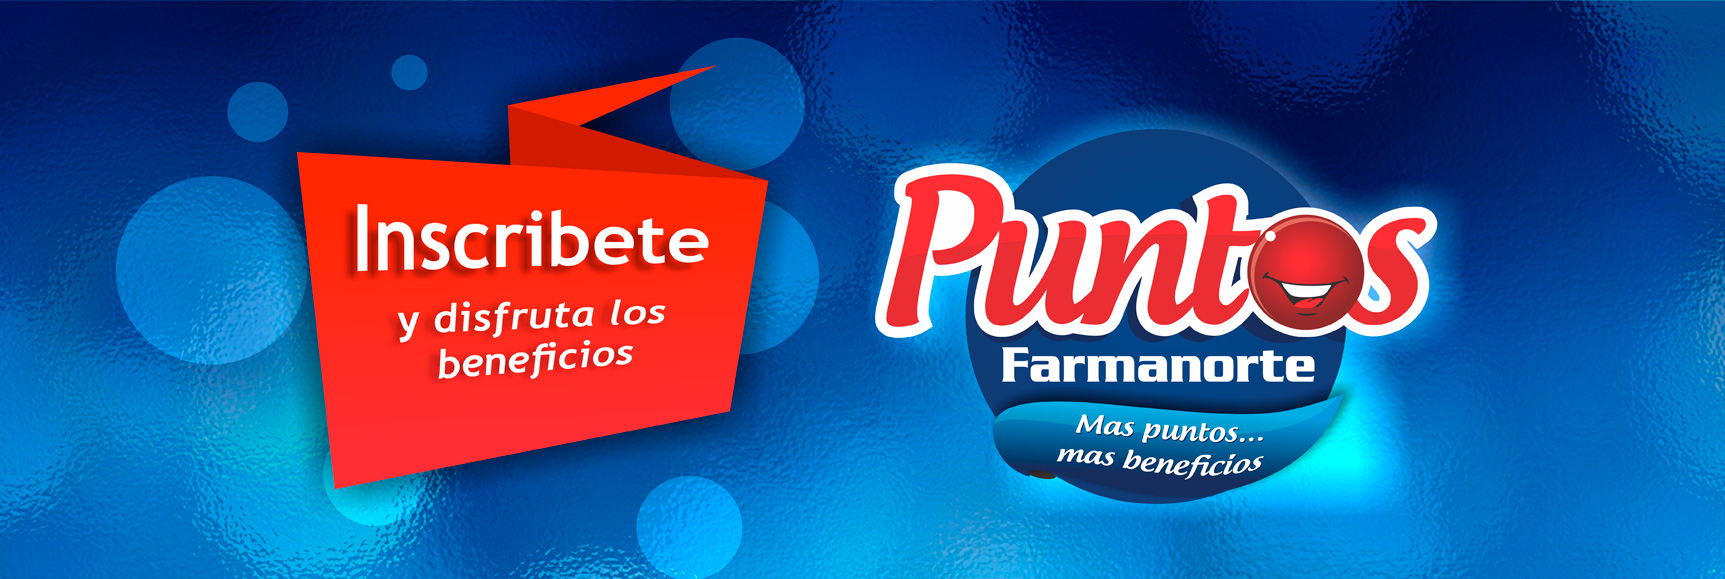
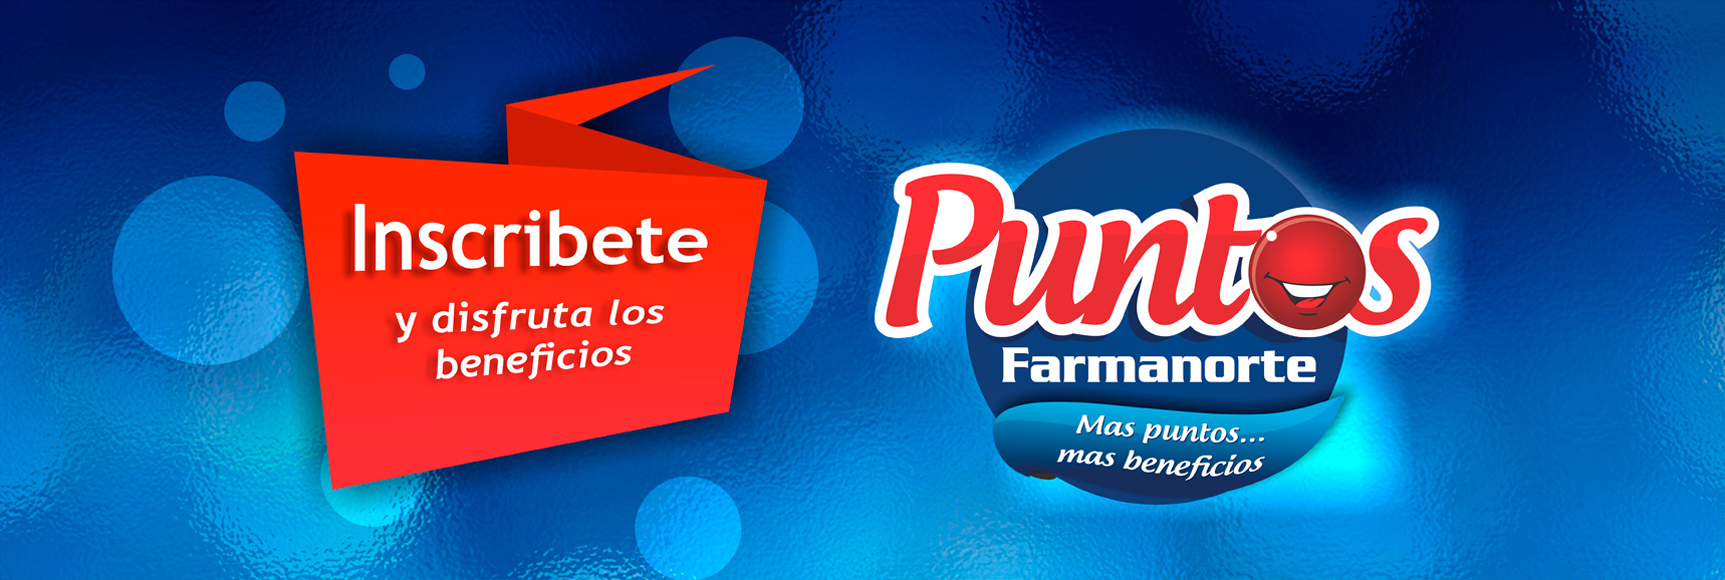
Cambios menores de links

diff --git a/index.html b/index.html
@@ -17,7 +17,7 @@
     <meta property="og:title" content="Puntos Farmanorte" />
     <meta property="og:url" content="http://www.puntosfarmanorte.com.co" />
     <meta property="og:description" content="Vinculate a nuestro programa de clientes fieles.">
-    <meta property="og:image" content="../images/iconospuntos-192x192.png">
+    <meta property="og:image" content="images/iconospuntos-192x192.png">
     <meta property="og:type" content="Application" />
     <meta name="HandheldFriendly" content="True">
     <meta name="MobileOptimized" content="320">
@@ -102,7 +102,7 @@
               <!-- <figcaption class="orbit-caption">Space, the final frontier.</figcaption> -->
             </li>
             <li class="orbit-slide">
-              <img class="orbit-image" src="images/bannersucursal.jpg" alt="Space">
+              <img class="orbit-image" src="images/bannersucursal.png" alt="Space">
               <!-- <figcaption class="orbit-caption">Lets Rocket!</figcaption> -->
             </li>          
           </ul>        
@@ -162,7 +162,7 @@
                 <li>Cada vez que el Afiliado realice una compra en las sucursales Farmanorte y se identifique en la caja con su cédula de ciudadanía, acumulará puntos en una cuenta personal</li>
                 <li>Preferencias en todos nuestros eventos, concursos y sorteos.</li>
                 <li>Obtendrás descuentos en productos especiales.</li>
-                <li>Con mas de 30 puntos de ventas en Norte de Santander en donde podrás hacer muy fácil la redención de puntos.  (VER SUCURSALES HAZ CLIC) </li>
+                <li>Con mas de 30 puntos de ventas en Norte de Santander en donde podrás hacer muy fácil la redención de puntos. <a href="https://www.farmanorte.com.co/seccion/mapsfarmanorte.html" target="_blank" id="linkmap">(VER SUCURSALES HAZ CLIC)</a> </li>
               </ul>
             </p>
           </div>

diff --git a/seccion/inscripcion.html b/seccion/inscripcion.html
@@ -6,13 +6,27 @@
     <meta name="viewport" content="width=device-width, user-scalable=no, initial-scale=1.0, maximum-scale=2.0, minimum-scale=1.0">    
     <meta name="description" content="Puntos Farmanorte es el programa de fidelizaci&oacute;n de clientes de la cadena Drogueria Faramanorte">
     <meta name="author" content="SoftDeromedicas">
-    <title>Puntos Farmanorte</title>
+    <title>Inscripcion - Puntos Farmanorte</title>
     <link rel="canonical" href="http://www.puntosfarmanorte.com.co">
     <meta name="robots" content="all">    
     <link rel="stylesheet" href="../css/foundation.css">
     <link rel="stylesheet" href="../css/app.css">
     <link rel="stylesheet" href="../css/font-awesome.css">   
     <link href="https://fonts.googleapis.com/css?family=Open+Sans:400,600i" rel="stylesheet">   
+
+    <meta property="og:title" content="Puntos Farmanorte" />
+    <meta property="og:url" content="http://www.puntosfarmanorte.com.co" />
+    <meta property="og:description" content="Vinculate a nuestro programa de clientes fieles.">
+    <meta property="og:image" content="../images/iconospuntos-192x192.png">
+    <meta property="og:type" content="Application" />
+    <meta name="HandheldFriendly" content="True">
+    <meta name="MobileOptimized" content="320">
+    
+    <link rel="apple-touch-icon" sizes="180x180" href="../images/apple-touch-icon.png">
+    <link rel="icon" type="image/png" sizes="32x32" href="../images/favicon-32x32.png">
+    <link rel="icon" type="image/png" sizes="16x16" href="../images/favicon-16x16.png">
+    <link rel="manifest" href="images/manifest.json">
+    <meta name="theme-color" content="#ffffff">
   </head>
   <body id="body-inscripciones">
   <!-- Menu off-canvas -->

diff --git a/js/app.js b/js/app.js
@@ -1,5 +1,14 @@
 $(document).foundation()
 
+console.log("%cMade for %cDromedicas del Oriente  %c(specially this project)",       
+        "background-color: #FFFFFF; color: #00612E",
+        "background-color: #FFFFFF; color: #000a7b",
+        "background-color: #FFFFFF; color: #AE000C");
+
+    console.log("%cVisit us! %chttp:www.dromedicas.com.co",
+        "background-color: #FFFFFF; color: #000",
+        "background-color: #FFFFFF; color: #008ce2");
+
 var currentElement = null;
 
 //activa menu

diff --git a/css/app.css b/css/app.css
@@ -36,6 +36,11 @@ body{
 }
 
 
+#linkmap{
+	text-decoration: none;
+	color: #FFFFFF;
+}
+
 .menuc-row{
 	height: auto;
 }
@@ -411,7 +416,7 @@ textarea {
 
 #inscripcion-content{
 	background: #EFF3F8;
-	padding-bottom: 5rem;
+	padding-bottom: 7.2rem;
 }
 
 #inscripcion-title{
@@ -431,12 +436,12 @@ textarea {
 	margin-right: 1rem;
 }
 
-#footer-form{
+/*#footer-form{
 	position: fixed;
 	bottom: 0px;
 	width: 100%;
 }
-
+*/
 
 
 /*MEDIA QUERIES*/
